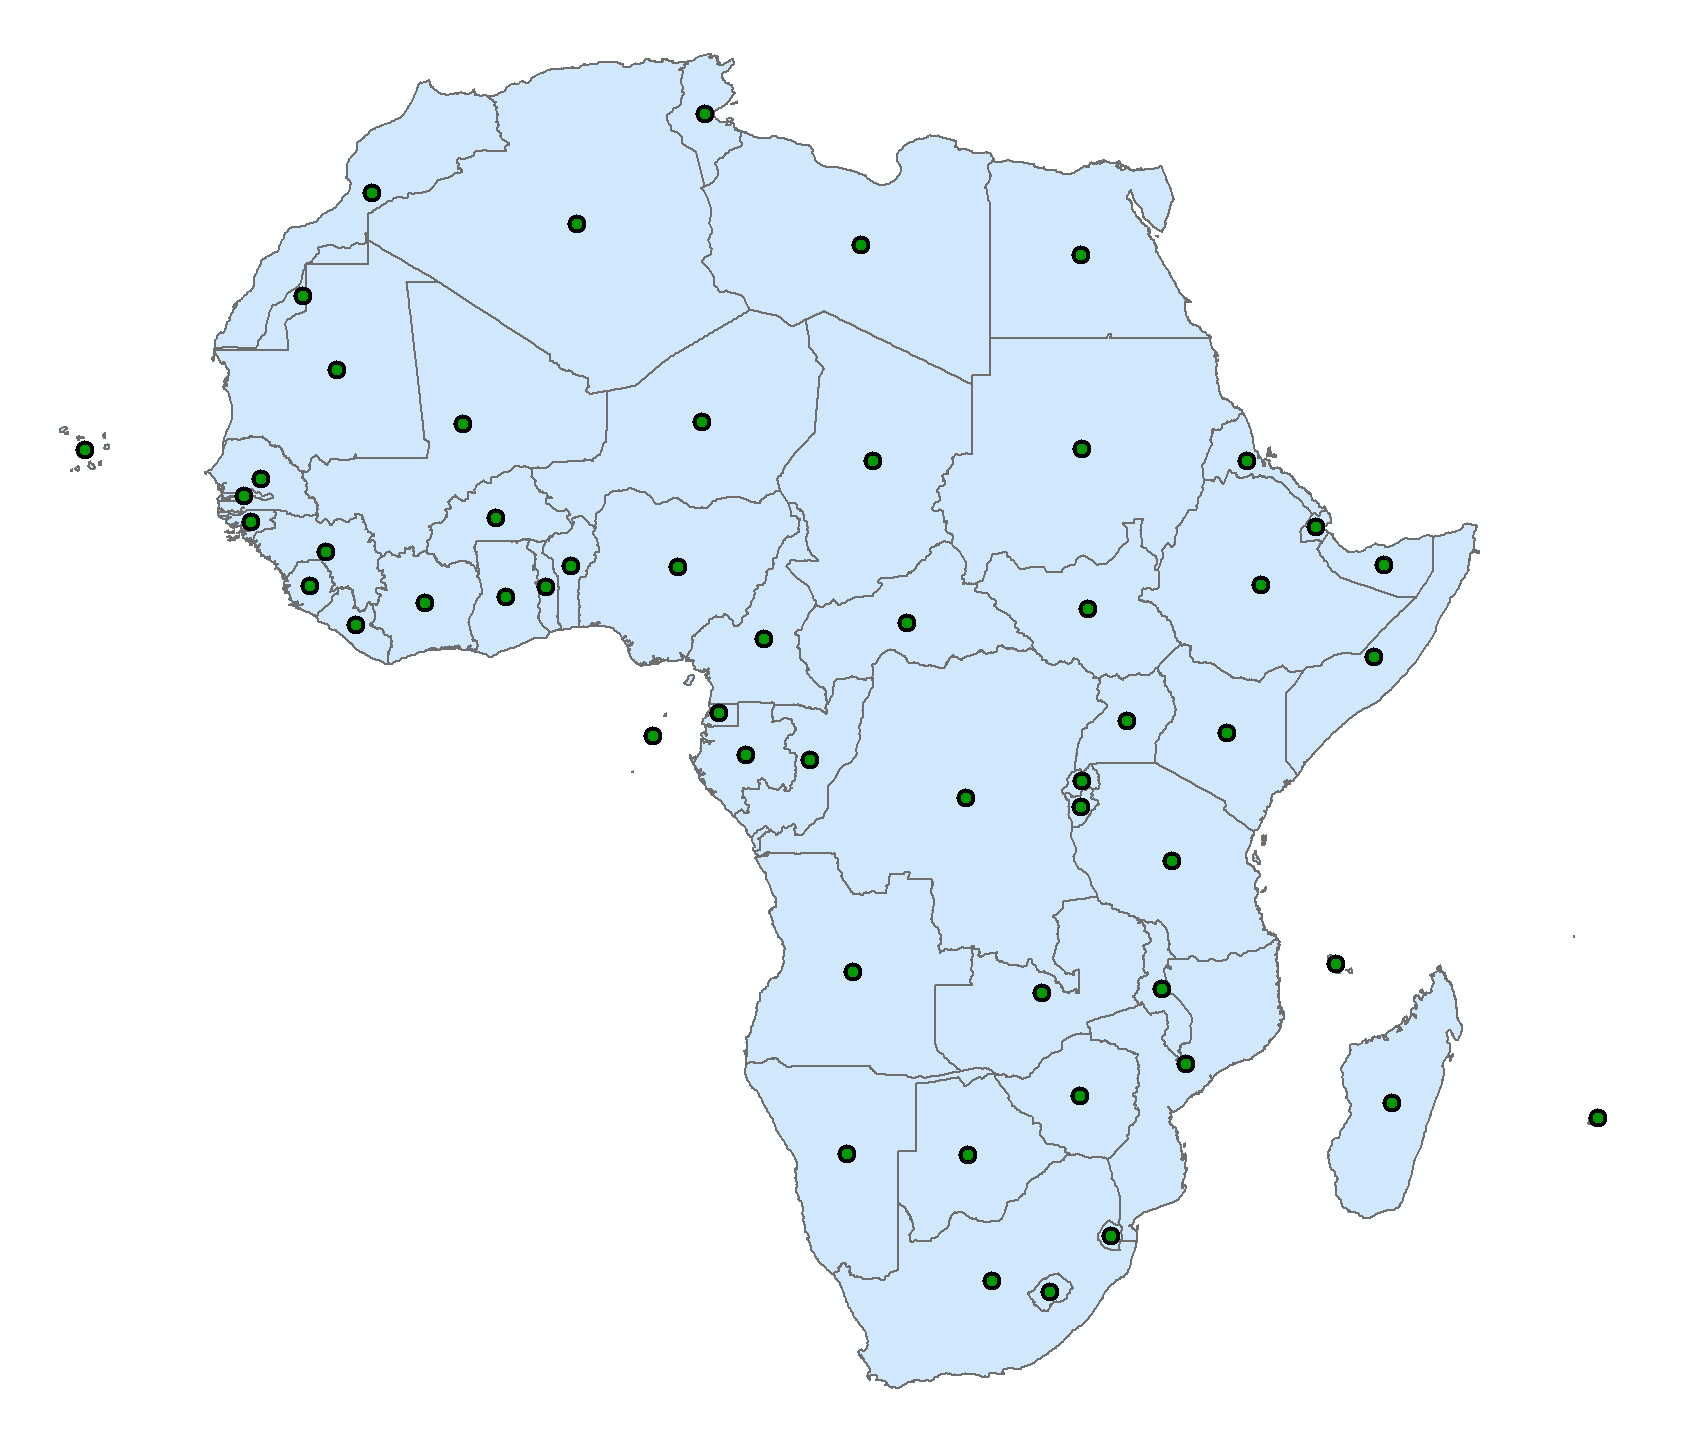
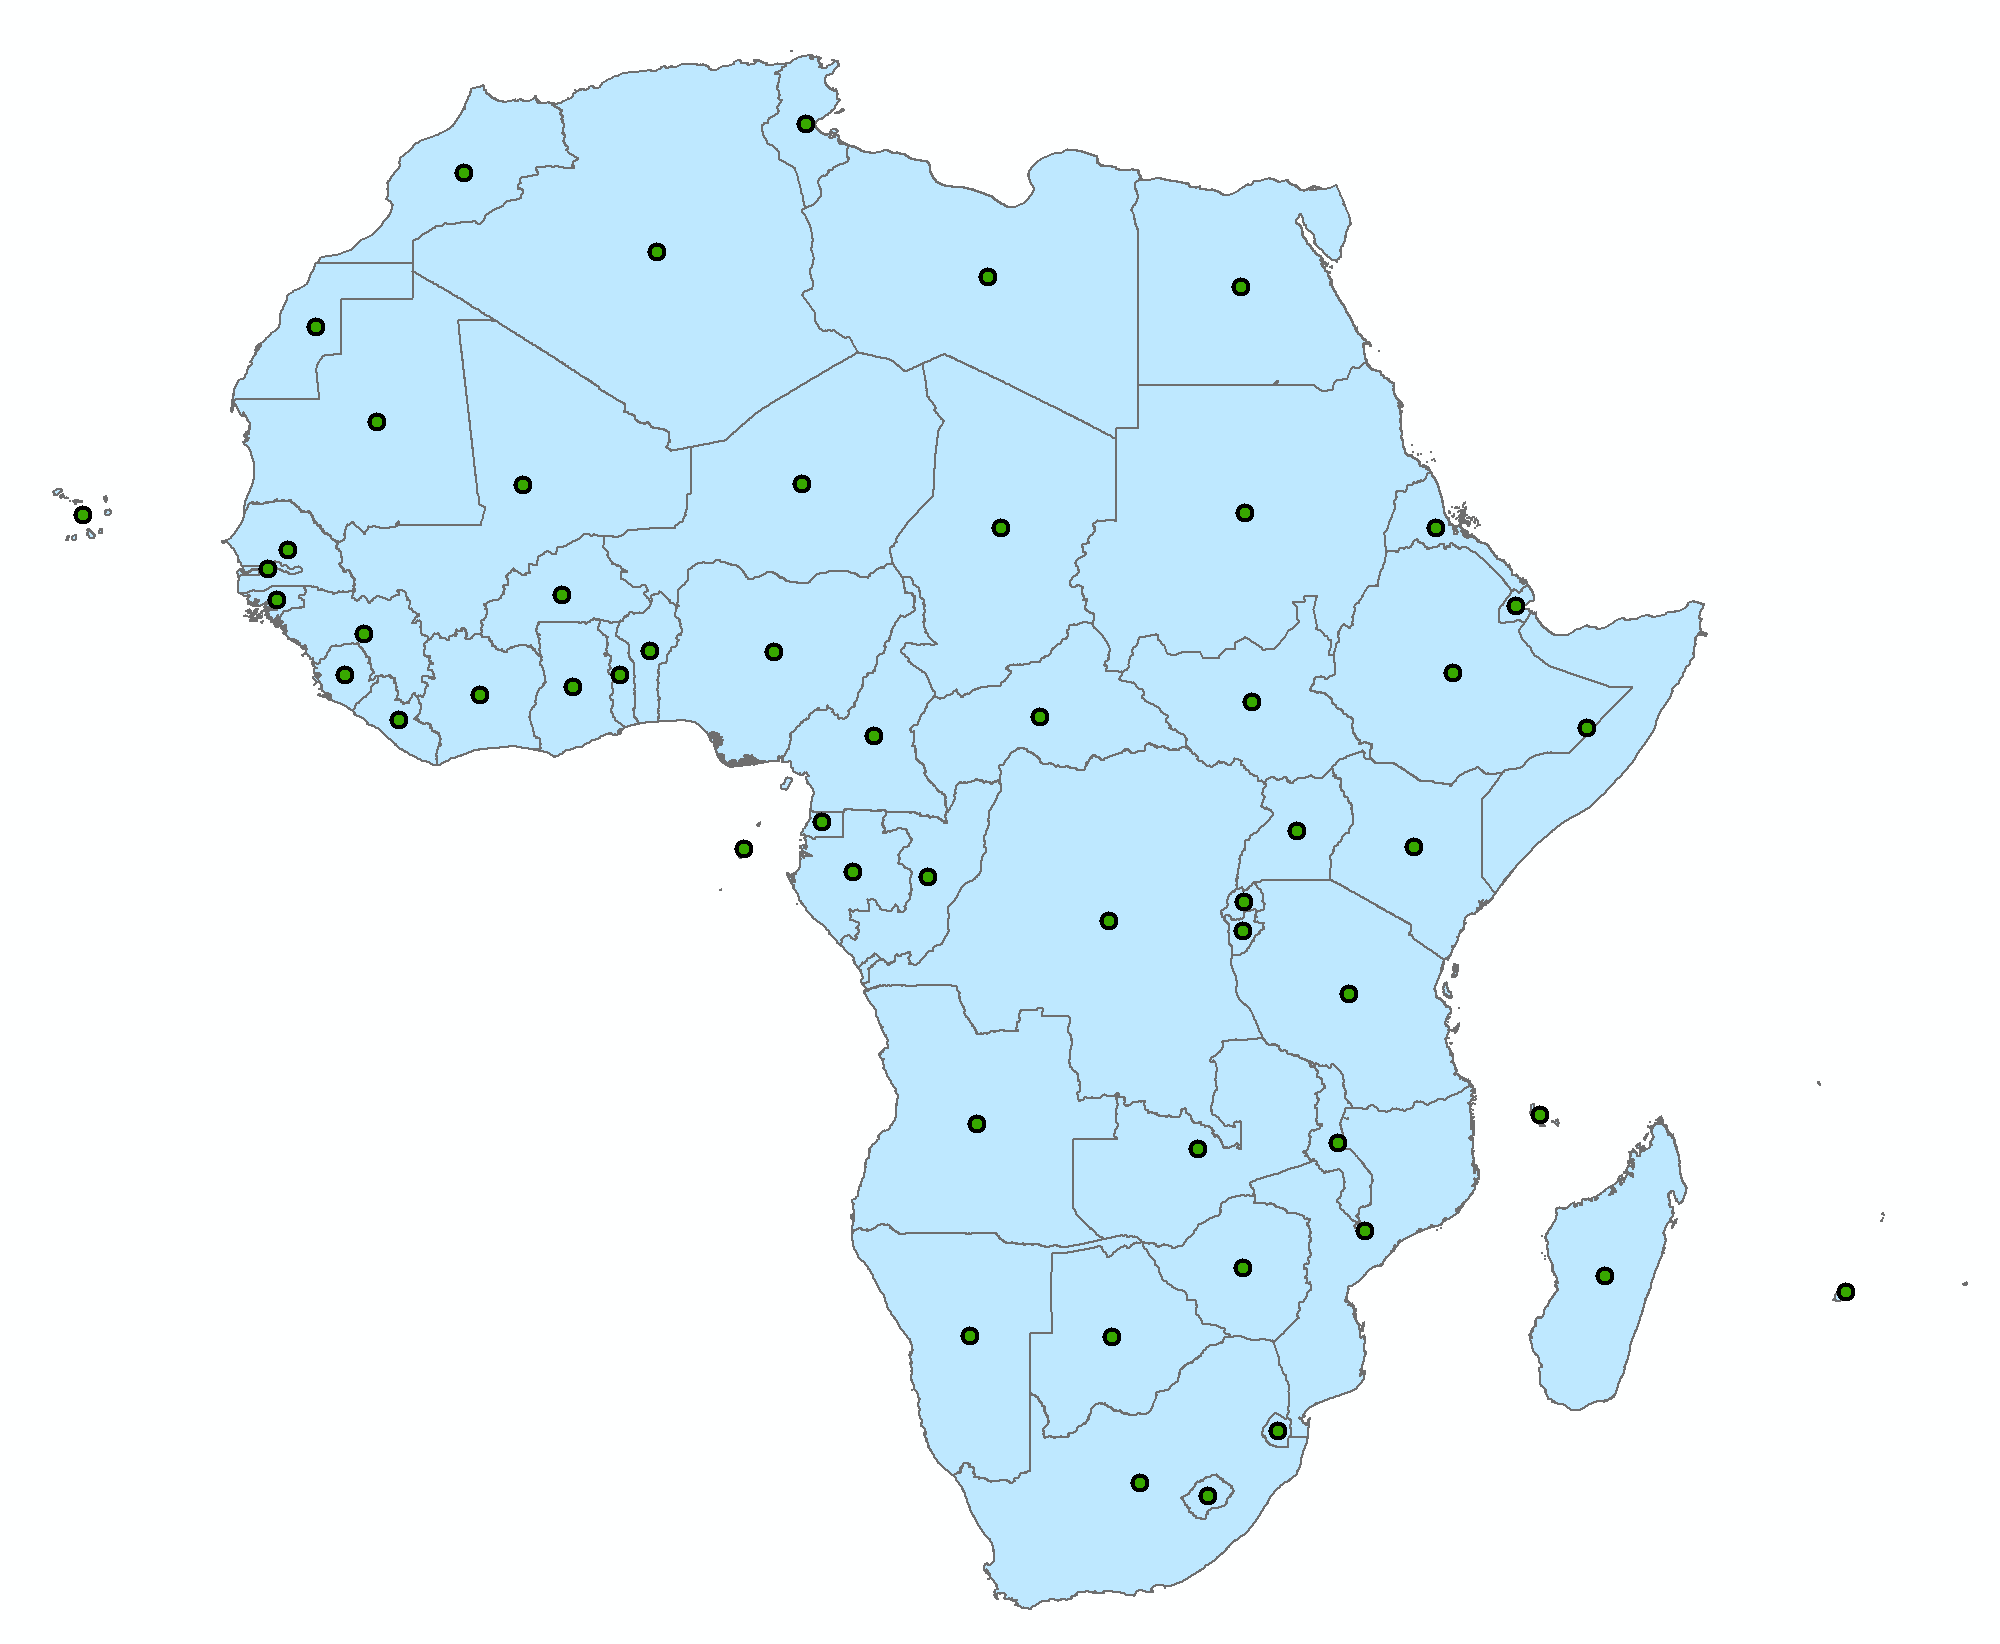
Use GADM, not Natural Earth, for country polygons in Lecture 4 #32

diff --git a/gis_lecture4.html b/gis_lecture4.html
@@ -932,17 +932,11 @@
 						Obtain country centroids
 					</h3>
 					<p>
-						Input: african_countries.shp
+						Input: Country polygons for Africa
 					</p>
 						<ul style="margin-left: 72px;">
 							<li>
-								Created by the lecturer from <a href="http://www.naturalearthdata.com/downloads/10m-cultural-vectors/10m-admin-0-countries/" target="_blank">Natural Earth 1:10m Cultural Vector "Admin 0 - Countries"</a>
-							</li>
-							<li>
-								Better than GAUL for obtaining centroids
-							</li>
-							<li>
-								GAUL: each island in the same country is a separate polygon...
+								Created by the lecturer from GADM (cf. <a href="http://127.0.0.1:3000/gis_lecture1.html#/ex1a" target="_blank">Lec 1 Ex 1</a>)
 							</li>
 						</ul>
 					<p>
@@ -966,7 +960,7 @@
 						Feature To Point
 					</h3>
 					<p>
-						<strong>Input Features</strong>: <code>...\Lecture4\input\african_countries.shp</code>
+						<strong>Input Features</strong>: <code>...\Lecture4\input\gadm36_africa.shp</code>
 					</p>
 					<ul>
 						<li>
@@ -994,15 +988,12 @@
 						Now <em>save and</em> run the Model.
 					</p>
 					<p>
-						Browse the output. When overlayed over <code>african-countries.shp</code>, you should see something like this:
+						Overlay the output over <code>gadm36_africa.shp</code>.
 					</p>
-					<img src="gis_lecture4/feature-to-point-result.png" style="border: 1px solid grey; background: none; box-shadow:none; width: 500px;">
 					<p>
-						Browse the attritube table...
-					</p>
-          <p>
-            Feature To Point doesn't add coordinates to the attribute table of the output. So...
+						You should see something like this:
           </p>
+					<img src="gis_lecture4/feature-to-point-result.png" style="border: 1px solid grey; background: none; box-shadow:none; width: 500px;">
         </section>
 
 				<section id="ex1ftp3" data-transition="fade-in fade-out" style="text-align: left;">
